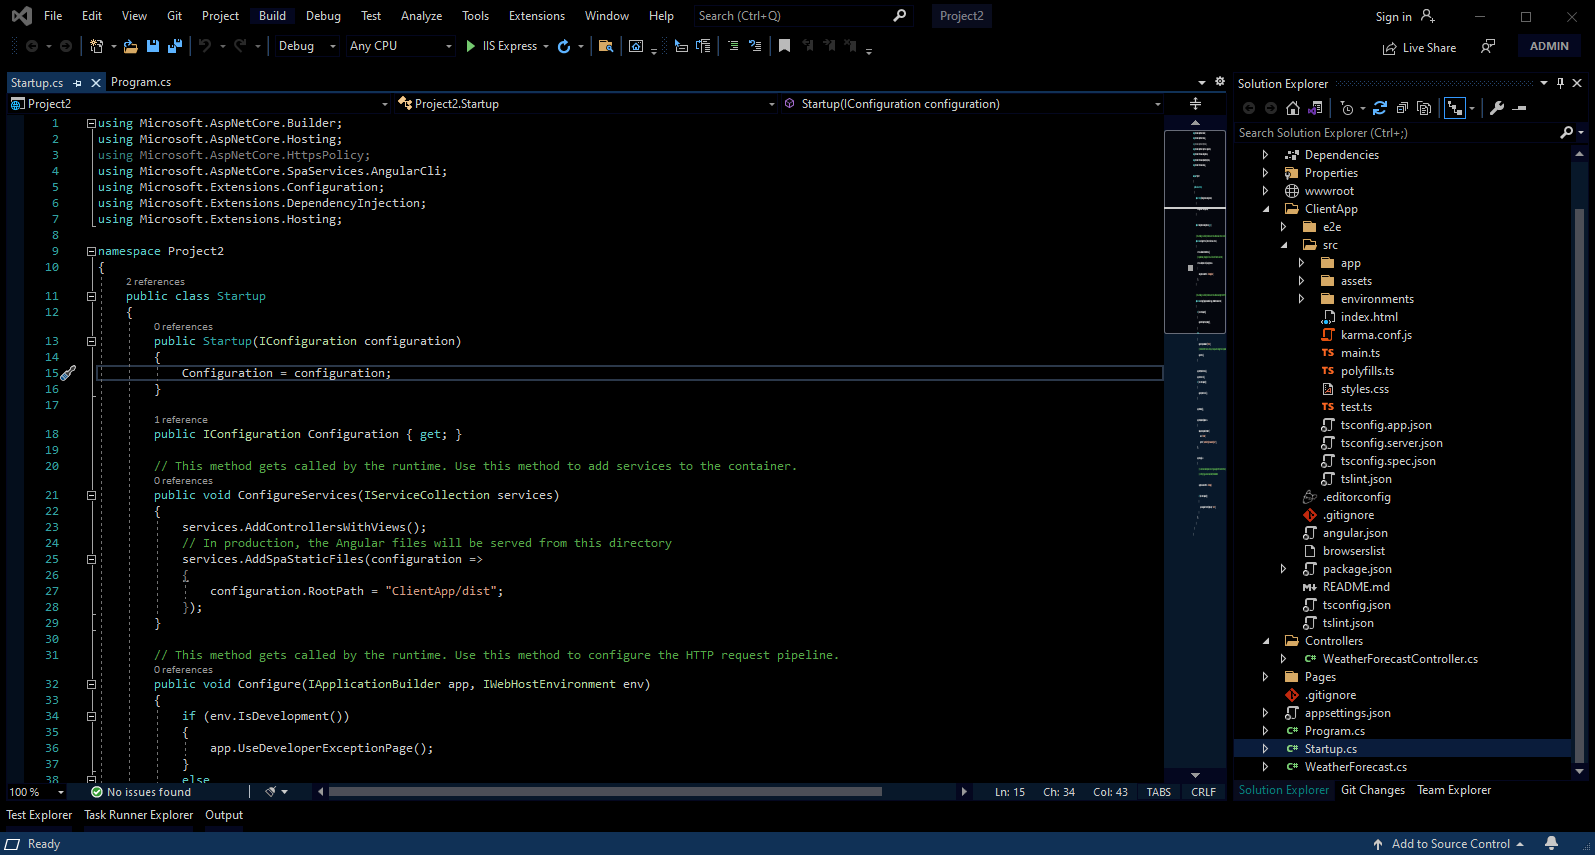
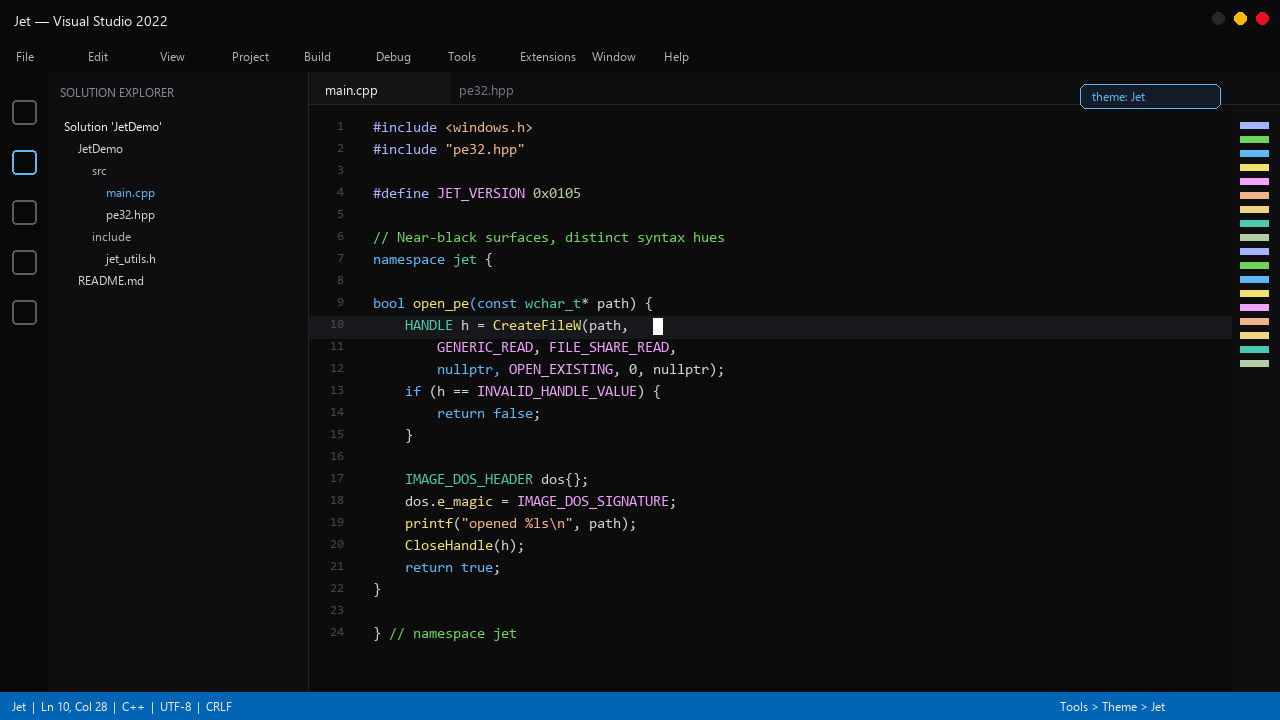
Replace placeholder theme images with Jet-branded assets.
The previous icon was a near-black 128x68 stub and the preview was a generic
VS Dark screenshot. Generate a square monogram icon and a palette-accurate
editor mockup (preprocessor violet, macro magenta, etc.), surface them in the
README, and keep a small generator script for regeneration.

diff --git a/scripts/gen_images.py b/scripts/gen_images.py
@@ -1,0 +1,341 @@
+"""Generate Jet theme marketing assets for images/."""
+from __future__ import annotations
+
+from pathlib import Path
+
+from PIL import Image, ImageDraw, ImageFont
+
+ROOT = Path(__file__).resolve().parents[1]
+OUT = ROOT / "images"
+OUT.mkdir(exist_ok=True)
+
+# Palette from README / theme
+PALETTE = {
+    "bg": (12, 12, 12),  # editor #0C0C0C
+    "chrome": (10, 10, 10),  # #0A0A0A
+    "panel": (14, 14, 16),
+    "border": (36, 36, 40),
+    "gutter": (70, 70, 74),
+    "text": (212, 212, 212),
+    "keyword": (94, 184, 245),  # #5EB8F5
+    "func": (240, 224, 112),  # #F0E070
+    "field": (240, 212, 128),  # #F0D480
+    "pp": (165, 180, 252),  # #A5B4FC
+    "macro": (240, 163, 255),  # #F0A3FF
+    "comment": (111, 212, 90),  # #6FD45A
+    "string": (240, 180, 138),  # #F0B48A
+    "type": (78, 201, 176),
+    "num": (181, 206, 168),
+    "white": (240, 240, 240),
+    "tab_active": (20, 20, 22),
+    "tab_idle": (14, 14, 16),
+    "line_hi": (22, 24, 28),
+}
+
+
+def load_font(size: int, mono: bool = False) -> ImageFont.FreeTypeFont | ImageFont.ImageFont:
+    if mono:
+        candidates = [
+            r"C:\Windows\Fonts\consola.ttf",
+            r"C:\Windows\Fonts\CascadiaMono.ttf",
+            r"C:\Windows\Fonts\CascadiaCode.ttf",
+            r"C:\Windows\Fonts\lucon.ttf",
+        ]
+    else:
+        candidates = [
+            r"C:\Windows\Fonts\segoeui.ttf",
+            r"C:\Windows\Fonts\arial.ttf",
+        ]
+    for path in candidates:
+        try:
+            return ImageFont.truetype(path, size)
+        except OSError:
+            continue
+    return ImageFont.load_default()
+
+
+def make_icon() -> Path:
+    size = 128
+    icon = Image.new("RGBA", (size, size), (0, 0, 0, 0))
+    draw = ImageDraw.Draw(icon)
+
+    bg = (10, 10, 10, 255)
+    border = (32, 32, 36, 255)
+    accent = (94, 184, 245, 255)
+    accent2 = (240, 224, 112, 255)
+    violet = (165, 180, 252, 255)
+
+    pad = 4
+    draw.rounded_rectangle(
+        [pad, pad, size - pad - 1, size - pad - 1],
+        radius=28,
+        fill=bg,
+        outline=border,
+        width=2,
+    )
+
+    cx, cy = size // 2, size // 2
+
+    glow = Image.new("RGBA", (size, size), (0, 0, 0, 0))
+    gd = ImageDraw.Draw(glow)
+    gd.ellipse([cx - 36, cy - 36, cx + 36, cy + 36], fill=(94, 184, 245, 40))
+    icon = Image.alpha_composite(icon, glow)
+    draw = ImageDraw.Draw(icon)
+
+    def chevron(ox: float, oy: float, scale: float, color: tuple[int, ...], width: int) -> None:
+        pts = [
+            (ox - 22 * scale, oy + 18 * scale),
+            (ox + 10 * scale, oy - 4 * scale),
+            (ox - 22 * scale, oy - 26 * scale),
+        ]
+        draw.line(pts, fill=color, width=width, joint="curve")
+
+    chevron(cx - 8, cy + 6, 1.0, (94, 184, 245, 90), 5)
+    chevron(cx + 2, cy + 2, 1.05, accent, 7)
+    draw.ellipse([cx + 14, cy - 18, cx + 26, cy - 6], fill=accent2)
+    draw.ellipse([cx - 28, cy + 18, cx - 18, cy + 28], fill=violet)
+
+    path = OUT / "icon.png"
+    icon.save(path, "PNG", optimize=True)
+    return path
+
+
+def make_preview() -> Path:
+    w, h = 1280, 720
+    c = PALETTE
+    preview = Image.new("RGB", (w, h), c["chrome"])
+    d = ImageDraw.Draw(preview)
+
+    font_ui = load_font(13)
+    font_ui_sm = load_font(12)
+    font_title = load_font(14)
+    font_code = load_font(15, mono=True)
+    font_code_sm = load_font(13, mono=True)
+
+    # Title bar + menu
+    d.rectangle([0, 0, w, 36], fill=c["chrome"])
+    d.rectangle([0, 36, w, 72], fill=c["chrome"])
+    d.line([(0, 72), (w, 72)], fill=c["border"], width=1)
+    d.text((14, 10), "Jet — Visual Studio 2022", font=font_title, fill=c["white"])
+    for i, col in enumerate([(232, 17, 35), (255, 185, 0), (40, 40, 44)]):
+        x = w - 18 - i * 22
+        d.ellipse([x - 6, 12, x + 6, 24], fill=col)
+
+    menus = [
+        "File",
+        "Edit",
+        "View",
+        "Project",
+        "Build",
+        "Debug",
+        "Tools",
+        "Extensions",
+        "Window",
+        "Help",
+    ]
+    x = 16
+    for m in menus:
+        d.text((x, 48), m, font=font_ui_sm, fill=(180, 180, 184))
+        x += 72
+
+    # Activity bar
+    ab_w = 48
+    d.rectangle([0, 72, ab_w, h - 28], fill=(8, 8, 8))
+    for i, y in enumerate([100, 150, 200, 250, 300]):
+        col = c["keyword"] if i == 1 else (90, 90, 96)
+        d.rounded_rectangle([12, y, 36, y + 24], radius=4, outline=col, width=2)
+
+    # Solution Explorer
+    sp_x0, sp_x1 = ab_w, ab_w + 260
+    d.rectangle([sp_x0, 72, sp_x1, h - 28], fill=c["panel"])
+    d.line([(sp_x1, 72), (sp_x1, h - 28)], fill=c["border"], width=1)
+    d.text((sp_x0 + 12, 84), "SOLUTION EXPLORER", font=font_ui_sm, fill=(140, 140, 148))
+    tree = [
+        (0, "Solution 'JetDemo'", c["white"]),
+        (1, "JetDemo", c["text"]),
+        (2, "src", (180, 180, 184)),
+        (3, "main.cpp", c["keyword"]),
+        (3, "pe32.hpp", c["text"]),
+        (2, "include", (180, 180, 184)),
+        (3, "jet_utils.h", c["text"]),
+        (1, "README.md", c["text"]),
+    ]
+    ty = 118
+    for indent, name, col in tree:
+        d.text((sp_x0 + 16 + indent * 14, ty), name, font=font_ui_sm, fill=col)
+        ty += 22
+
+    # Editor chrome
+    ed_x0 = sp_x1 + 1
+    ed_y0 = 72
+    d.rectangle([ed_x0, ed_y0, w, ed_y0 + 32], fill=c["tab_idle"])
+    d.rectangle([ed_x0, ed_y0, ed_x0 + 140, ed_y0 + 32], fill=c["tab_active"])
+    d.text((ed_x0 + 16, ed_y0 + 8), "main.cpp", font=font_ui, fill=c["white"])
+    d.text((ed_x0 + 150, ed_y0 + 8), "pe32.hpp", font=font_ui, fill=(120, 120, 128))
+    d.line([(ed_x0, ed_y0 + 32), (w, ed_y0 + 32)], fill=c["border"], width=1)
+    d.rectangle([ed_x0, ed_y0 + 33, w, h - 28], fill=c["bg"])
+
+    # Code showcasing Jet syntax roles
+    code: list[list[tuple[str, tuple[int, int, int]]]] = [
+        [("#include ", c["pp"]), ("<windows.h>", c["string"])],
+        [("#include ", c["pp"]), ('"pe32.hpp"', c["string"])],
+        [("", c["text"])],
+        [("#define ", c["pp"]), ("JET_VERSION ", c["macro"]), ("0x0105", c["num"])],
+        [("", c["text"])],
+        [("// Near-black surfaces, distinct syntax hues", c["comment"])],
+        [("namespace ", c["keyword"]), ("jet", c["type"]), (" {", c["text"])],
+        [("", c["text"])],
+        [
+            ("bool ", c["keyword"]),
+            ("open_pe", c["func"]),
+            ("(const ", c["keyword"]),
+            ("wchar_t", c["type"]),
+            ("* path) {", c["text"]),
+        ],
+        [
+            ("    ", c["text"]),
+            ("HANDLE ", c["type"]),
+            ("h = ", c["text"]),
+            ("CreateFileW", c["func"]),
+            ("(path, ", c["text"]),
+        ],
+        [
+            ("        ", c["text"]),
+            ("GENERIC_READ", c["macro"]),
+            (", ", c["text"]),
+            ("FILE_SHARE_READ", c["macro"]),
+            (", ", c["text"]),
+        ],
+        [
+            ("        nullptr, ", c["keyword"]),
+            ("OPEN_EXISTING", c["macro"]),
+            (", 0, nullptr);", c["text"]),
+        ],
+        [
+            ("    if ", c["keyword"]),
+            ("(h == ", c["text"]),
+            ("INVALID_HANDLE_VALUE", c["macro"]),
+            (") {", c["text"]),
+        ],
+        [
+            ("        ", c["text"]),
+            ("return ", c["keyword"]),
+            ("false", c["keyword"]),
+            (";", c["text"]),
+        ],
+        [("    }", c["text"])],
+        [("", c["text"])],
+        [
+            ("    ", c["text"]),
+            ("IMAGE_DOS_HEADER ", c["type"]),
+            ("dos{};", c["text"]),
+        ],
+        [
+            ("    dos.", c["text"]),
+            ("e_magic", c["field"]),
+            (" = ", c["text"]),
+            ("IMAGE_DOS_SIGNATURE", c["macro"]),
+            (";", c["text"]),
+        ],
+        [
+            ("    ", c["text"]),
+            ("printf", c["func"]),
+            ("(", c["text"]),
+            (r'"opened %ls\n"', c["string"]),
+            (", path);", c["text"]),
+        ],
+        [
+            ("    ", c["text"]),
+            ("CloseHandle", c["func"]),
+            ("(h);", c["text"]),
+        ],
+        [
+            ("    ", c["text"]),
+            ("return ", c["keyword"]),
+            ("true", c["keyword"]),
+            (";", c["text"]),
+        ],
+        [("}", c["text"])],
+        [("", c["text"])],
+        [("} ", c["text"]), ("// namespace jet", c["comment"])],
+    ]
+
+    gutter_w = 52
+    code_x = ed_x0 + gutter_w + 12
+    code_y0 = ed_y0 + 48
+    line_h = 22
+    active = 9
+
+    d.rectangle(
+        [ed_x0, code_y0 + active * line_h - 2, w, code_y0 + (active + 1) * line_h - 2],
+        fill=c["line_hi"],
+    )
+
+    # White VsVim-style block caret
+    caret_x = code_x + 280
+    caret_y = code_y0 + active * line_h
+    d.rectangle([caret_x, caret_y, caret_x + 9, caret_y + 16], fill=(255, 255, 255))
+
+    for i, segs in enumerate(code):
+        y = code_y0 + i * line_h
+        d.text((ed_x0 + 14, y), f"{i + 1:>3}", font=font_code_sm, fill=c["gutter"])
+        x = code_x
+        for text, col in segs:
+            d.text((x, y), text, font=font_code, fill=col)
+            bbox = d.textbbox((0, 0), text, font=font_code)
+            x += bbox[2] - bbox[0]
+
+    # Minimap
+    d.rectangle([w - 48, ed_y0 + 33, w, h - 28], fill=(14, 14, 16))
+    mini_colors = [
+        c["pp"],
+        c["comment"],
+        c["keyword"],
+        c["func"],
+        c["macro"],
+        c["string"],
+        c["field"],
+        c["type"],
+        c["num"],
+    ]
+    for i in range(18):
+        col = mini_colors[i % len(mini_colors)]
+        d.rectangle(
+            [w - 40, ed_y0 + 50 + i * 14, w - 12, ed_y0 + 56 + i * 14],
+            fill=col,
+        )
+
+    # Status bar
+    d.rectangle([0, h - 28, w, h], fill=(0, 100, 180))
+    d.text(
+        (12, h - 22),
+        "Jet  |  Ln 10, Col 28  |  C++  |  UTF-8  |  CRLF",
+        font=font_ui_sm,
+        fill=c["white"],
+    )
+    d.text((w - 220, h - 22), "Tools > Theme > Jet", font=font_ui_sm, fill=c["white"])
+
+    # Theme chip
+    d.rounded_rectangle(
+        [w - 200, 84, w - 60, 108],
+        radius=6,
+        fill=(20, 28, 40),
+        outline=c["keyword"],
+        width=1,
+    )
+    d.text((w - 188, 88), "theme: Jet", font=font_ui_sm, fill=c["keyword"])
+
+    path = OUT / "preview.png"
+    preview.save(path, "PNG", optimize=True)
+    return path
+
+
+def main() -> None:
+    icon = make_icon()
+    preview = make_preview()
+    print(f"icon    {icon}  {icon.stat().st_size} bytes")
+    print(f"preview {preview}  {preview.stat().st_size} bytes")
+
+
+if __name__ == "__main__":
+    main()

diff --git a/README.md b/README.md
@@ -1,8 +1,12 @@
 # Jet
 
+<img src="images/icon.png" alt="Jet theme icon" width="96" height="96" align="right" />
+
 A near-black dark theme for Visual Studio 2019 and later.
 
 Jet is a darkened take on Visual Studio's built-in **Dark** theme. Shell and editor surfaces are pushed toward almost-OLED depth without pure black everywhere, so panels keep a thin charcoal separation. Syntax colors are boosted for contrast on near-black while keeping distinct hues (for example, cool violet for preprocessor vs warm magenta for macros).
+
+![Jet theme preview](images/preview.png)
 
 ## Features
 
